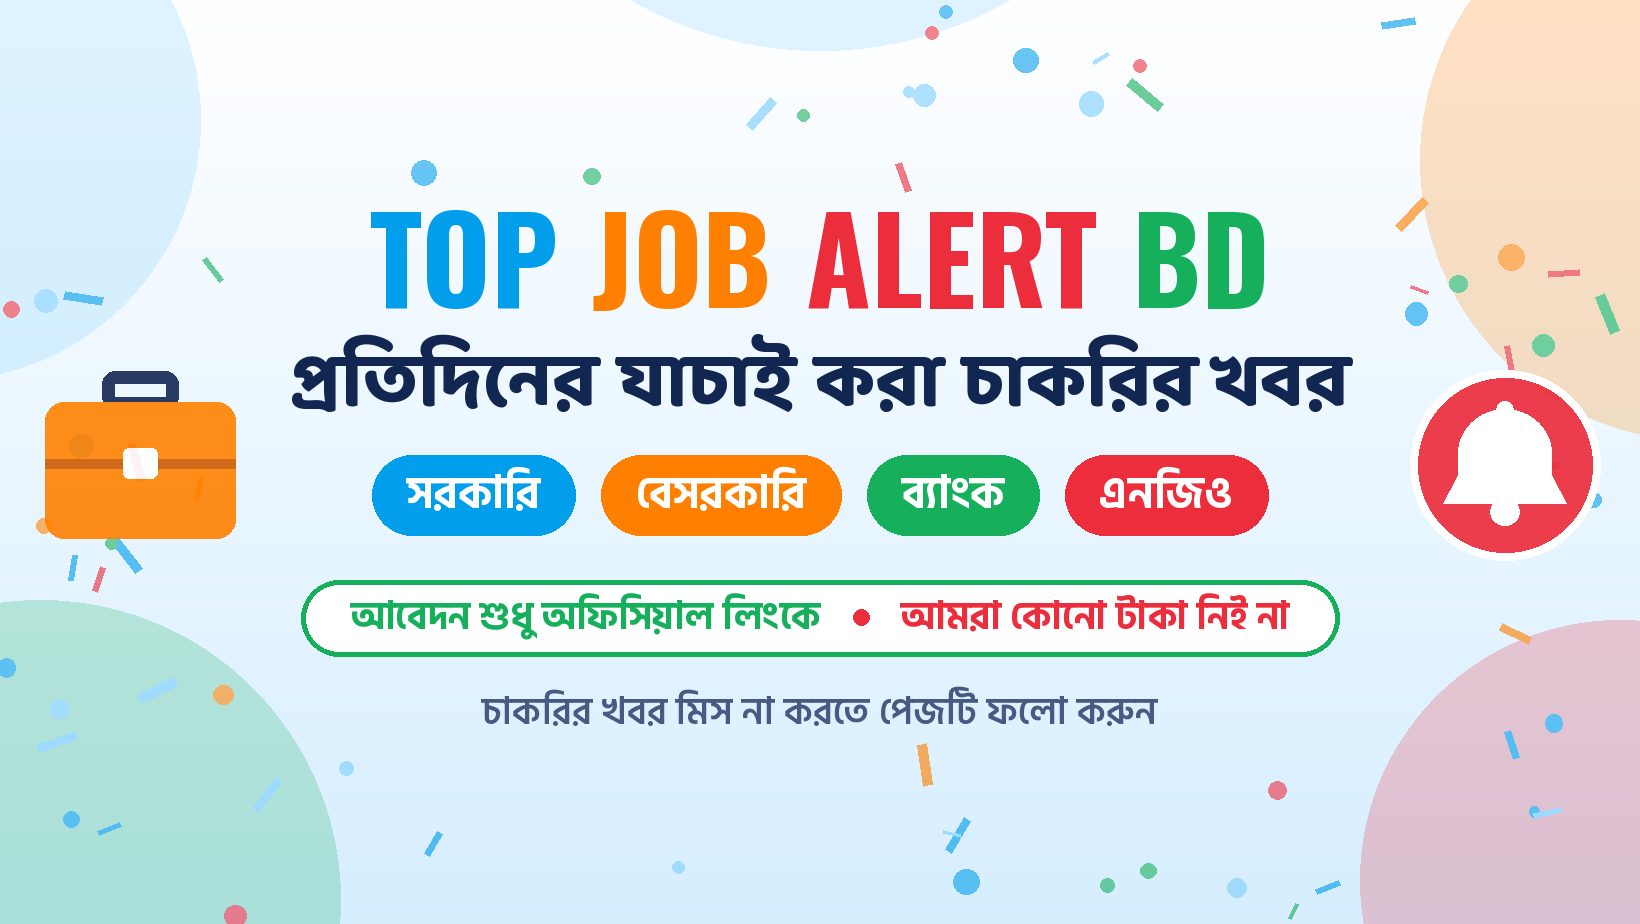
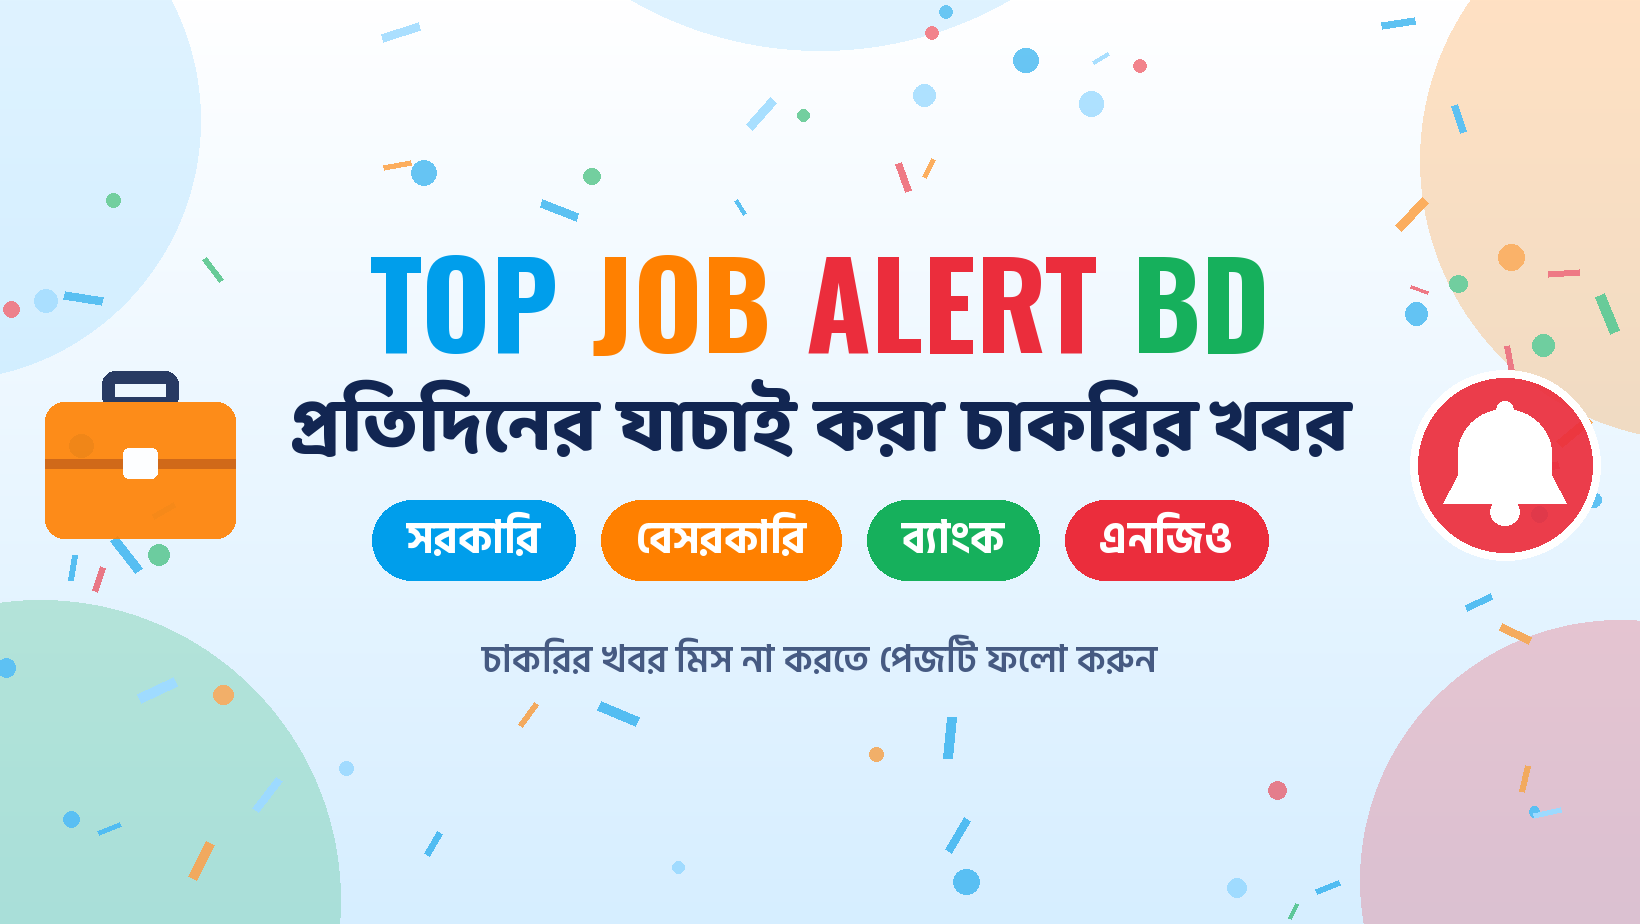
Top Job Alert BD cover: drop trust line (moves to page bio)
Claude-Session: https://claude.ai/code/session_01D4pFEJYbgjg59hSpKq6gxZ

diff --git a/brand/topjobalert/make.py b/brand/topjobalert/make.py
@@ -68,7 +68,7 @@ cv = grad(W, H, BG1, BG2).convert("RGBA")
 lay = Image.new("RGBA", (W, H), (0, 0, 0, 0)); ld = ImageDraw.Draw(lay)
 for (x, y, r, c) in [(-60, 120, 260, LBLUE), (1700, 160, 280, ORANGE), (40, 900, 300, GREEN), (1620, 880, 260, RED), (820, -330, 380, LBLUE)]:
     ld.ellipse([x - r, y - r, x + r, y + r], fill=c + (60,))
-confetti(lay, W, H, 120, 3, keep_out=(250, 180, 1390, 760))
+confetti(lay, W, H, 120, 3, keep_out=(250, 220, 1390, 700))
 cv.alpha_composite(lay)
 lay = Image.new("RGBA", (W, H), (0, 0, 0, 0)); ld = ImageDraw.Draw(lay)
 briefcase(ld, 140, 470, 190, body=ORANGE + (230,), handle=NAVY + (230,), strap=(205, 90, 0, 230), lock=(255, 255, 255, 230))
@@ -77,17 +77,11 @@ cv.alpha_composite(lay); d = ImageDraw.Draw(cv)
 
 fo = f(OSW, 118); words = [("TOP", BLUE), ("JOB", ORANGE), ("ALERT", RED), ("BD", GREEN)]
 sp = 34; ws = [d.textlength(w, font=fo) for w, _ in words]; x = W/2 - (sum(ws) + sp*3)/2
-for (w, c), wd in zip(words, ws): d.text((x, 255), w, font=fo, fill=c, anchor="lm"); x += wd + sp
-ctext(d, W/2, 385, "প্রতিদিনের যাচাই করা চাকরির খবর", f(BN_B, 74), NAVY)
+for (w, c), wd in zip(words, ws): d.text((x, 300), w, font=fo, fill=c, anchor="lm"); x += wd + sp
+ctext(d, W/2, 430, "প্রতিদিনের যাচাই করা চাকরির খবর", f(BN_B, 74), NAVY)
 pf = f(BN_H, 44); pills = [("সরকারি", BLUE), ("বেসরকারি", ORANGE), ("ব্যাংক", GREEN), ("এনজিও", RED)]
 pw = [d.textlength(t, font=pf) + 70 for t, _ in pills]; gap = 26; x = W/2 - (sum(pw) + gap*3)/2
 for (t, c), w in zip(pills, pw):
-    d.rounded_rectangle([x, 455, x + w, 535], radius=40, fill=c); ctext(d, x + w/2, 494, t, pf, WHITE); x += w + gap
-tf = f(BN_H, 38); t1, t2 = "✔", None
-line = "আবেদন শুধু অফিসিয়াল লিংকে"; line2 = "আমরা কোনো টাকা নিই না"
-w1, w2 = d.textlength(line, font=tf), d.textlength(line2, font=tf); tot = w1 + w2 + 80
-d.rounded_rectangle([W/2 - tot/2 - 50, 580, W/2 + tot/2 + 50, 656], radius=38, fill=WHITE, outline=GREEN, width=5)
-x = W/2 - tot/2; d.text((x, 617), line, font=tf, fill=GREEN, anchor="lm"); x += w1 + 40
-d.ellipse([x - 8, 609, x + 8, 625], fill=RED); x += 40; d.text((x, 617), line2, font=tf, fill=RED, anchor="lm")
-ctext(d, W/2, 712, "চাকরির খবর মিস না করতে পেজটি ফলো করুন", f(BN_S, 38), (70, 90, 130))
+    d.rounded_rectangle([x, 500, x + w, 580], radius=40, fill=c); ctext(d, x + w/2, 539, t, pf, WHITE); x += w + gap
+ctext(d, W/2, 660, "চাকরির খবর মিস না করতে পেজটি ফলো করুন", f(BN_S, 38), (70, 90, 130))
 cv.convert("RGB").save(f"{OUT}/cover_photo.png")
